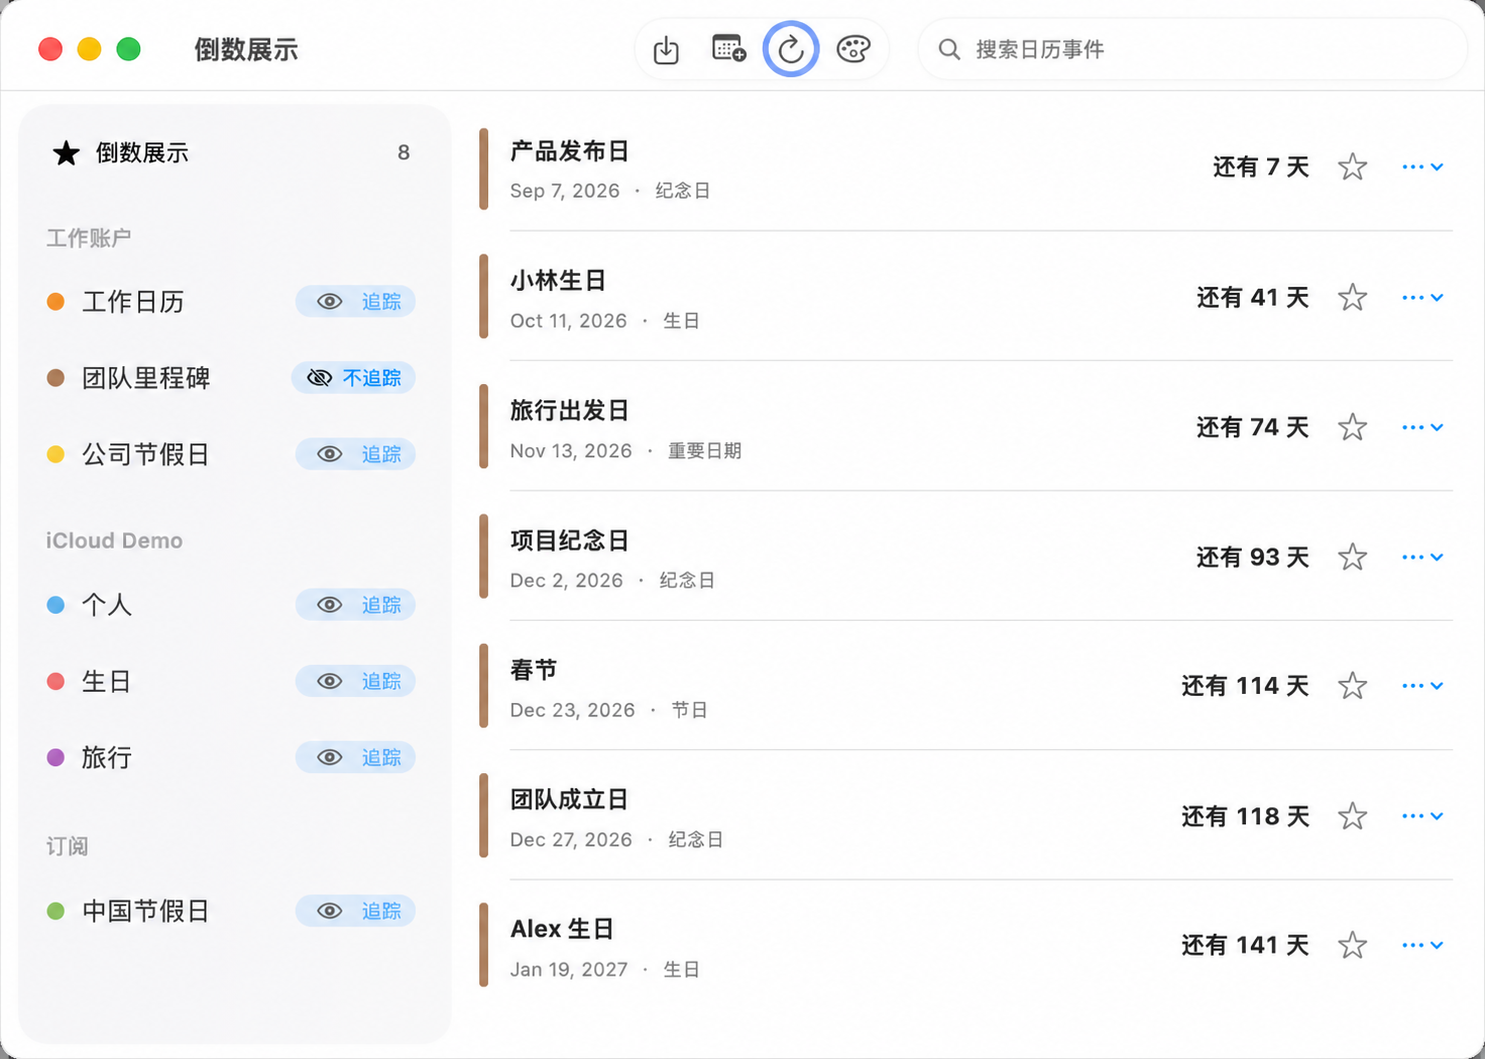
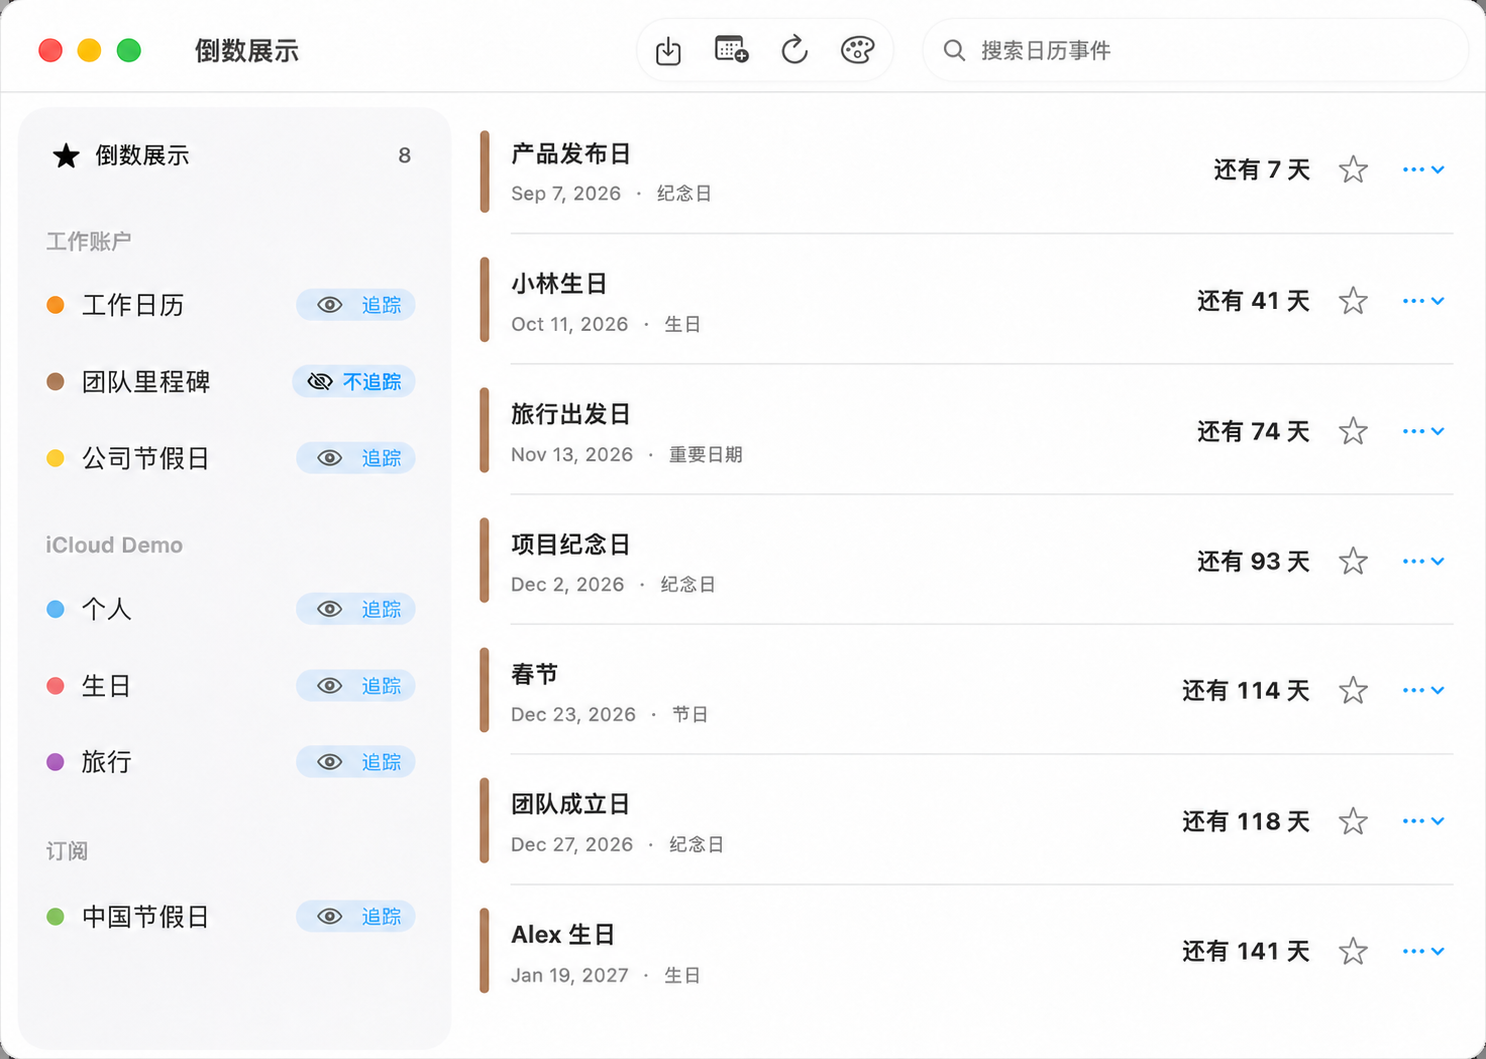
fix: remove refresh button focus highlight

diff --git a/Source/App/MainView.swift b/Source/App/MainView.swift
@@ -48,6 +48,7 @@ struct MainView: View {
                     Label("刷新", systemImage: "arrow.clockwise")
                 }
                 .disabled(model.isLoading)
+                .focusEffectDisabled()
 
                 Button {
                     openAppearanceSettings()

diff --git a/Source/App/MenuBarContentView.swift b/Source/App/MenuBarContentView.swift
@@ -18,6 +18,7 @@ struct MenuBarContentView: View {
                     Image(systemName: "arrow.clockwise")
                 }
                 .buttonStyle(.plain)
+                .focusEffectDisabled()
             }
 
             if model.selectedEvents.isEmpty {

diff --git a/README.fr.md b/README.fr.md
@@ -31,7 +31,6 @@ CalendarCountdown n’est pas une autre base de données de calendrier. Les comp
 - Prend en charge les règles annuelles grégoriennes et du calendrier lunaire chinois, y compris les mois intercalaires et le repli pour les mois courts.
 - Calcule « aujourd’hui », « demain » et le nombre de jours restants avec le calendrier local du système.
 - Application macOS native, aperçu dans la barre des menus et widget de bureau WidgetKit.
-- Un anneau bleu permanent rend l’action d’actualisation facile à repérer dans la fenêtre principale comme dans le menu contextuel.
 - Ajoute des événements ordinaires et des anniversaires grégoriens ou lunaires dans un calendrier Apple explicitement choisi.
 - Exporte en un clic toutes les dates importantes actuellement suivies.
 - Binaire universel pour les Mac Apple Silicon et Intel sous macOS 14 ou version ultérieure.

diff --git a/README.ja.md b/README.ja.md
@@ -31,7 +31,6 @@ CalendarCountdownは別のカレンダーデータベースではありません
 - グレゴリオ暦と中国旧暦の年次ルール、閏月、月末補正に対応。
 - システムのローカルカレンダーで「今日」「明日」と残り日数を計算。
 - macOSネイティブアプリ、メニューバー表示、WidgetKitデスクトップウィジェット。
-- メインウィンドウとメニューバーポップオーバーの更新ボタンは青いアクセントリングを常に表示し、すぐに見つけられます。
 - 通常の予定、グレゴリオ暦の誕生日、旧暦の誕生日を、明示的に選んだAppleカレンダーへ追加。
 - 現在追跡中の重要日をアプリからワンクリックで書き出し。
 - Apple SiliconとIntel Macに対応するUniversal Binary（macOS 14以降）。

diff --git a/README.ko.md b/README.ko.md
@@ -31,7 +31,6 @@ CalendarCountdown은 또 하나의 캘린더 데이터베이스가 아닙니다.
 - 양력과 중국 음력의 연간 규칙, 윤달과 짧은 음력 월의 보정 정책을 지원합니다.
 - 시스템의 로컬 캘린더로 ‘오늘’, ‘내일’과 남은 일수를 계산합니다.
 - 네이티브 macOS 앱, 메뉴 막대 보기와 WidgetKit 데스크톱 위젯을 제공합니다.
-- 메인 창과 메뉴 막대 팝오버의 새로고침 버튼에 파란 강조 링을 항상 표시해 동기화 동작을 쉽게 찾을 수 있습니다.
 - 일반 이벤트, 양력 생일과 음력 생일을 명시적으로 선택한 Apple 캘린더에 추가합니다.
 - 앱에서 현재 추적 중인 모든 중요 날짜를 한 번에 내보냅니다.
 - Apple Silicon과 Intel Mac을 모두 지원하는 Universal Binary입니다(macOS 14 이상).

diff --git a/README.de.md b/README.de.md
@@ -31,7 +31,6 @@ CalendarCountdown ist keine weitere Kalenderdatenbank. Konten, Kalender, Ereigni
 - Unterstützt jährliche Regeln nach gregorianischem und chinesischem Mondkalender, einschließlich Schaltmonaten und Ausgleich für kurze Mondmonate.
 - Berechnet „heute“, „morgen“ und verbleibende Tage anhand des lokalen Systemkalenders.
 - Native macOS-App, Menüleistenansicht und WidgetKit-Desktop-Widget.
-- Ein dauerhaft sichtbarer blauer Akzentring macht die Aktualisieren-Aktion im Hauptfenster und im Menüleisten-Popover leicht auffindbar.
 - Fügt normale Ereignisse sowie gregorianische oder lunare Geburtstage einem ausdrücklich gewählten Apple-Kalender hinzu.
 - Exportiert alle aktuell verfolgten wichtigen Termine mit einem Klick.
 - Universal Binary für Apple-Silicon- und Intel-Macs ab macOS 14.

diff --git a/README.es.md b/README.es.md
@@ -31,7 +31,6 @@ CalendarCountdown no es otra base de datos de calendarios. Las cuentas, calendar
 - Admite reglas anuales del calendario gregoriano y lunar chino, incluidos el mes intercalar y la compensación para meses cortos.
 - Calcula «hoy», «mañana» y los días restantes con el calendario local del sistema.
 - App nativa para macOS, vista en la barra de menús y widget de escritorio con WidgetKit.
-- Un anillo azul permanente permite localizar rápidamente la acción de actualizar tanto en la ventana principal como en el menú emergente.
 - Añade eventos normales y cumpleaños gregorianos o lunares a un calendario de Apple elegido explícitamente.
 - Exporta con un clic todas las fechas importantes que se están siguiendo.
 - Binario universal para Macs Apple Silicon e Intel, con macOS 14 o posterior.

diff --git a/README.pt.md b/README.pt.md
@@ -31,7 +31,6 @@ CalendarCountdown não é outro banco de dados de calendário. Contas, calendár
 - Suporta regras anuais do calendário gregoriano e lunar chinês, incluindo mês intercalar e ajuste para meses curtos.
 - Calcula “hoje”, “amanhã” e os dias restantes usando o calendário local do sistema.
 - App nativo para macOS, visualização na barra de menus e widget de desktop com WidgetKit.
-- Um anel azul persistente mantém a ação de atualizar fácil de localizar tanto na janela principal quanto no menu suspenso.
 - Adiciona eventos comuns e aniversários gregorianos ou lunares a um calendário Apple escolhido explicitamente.
 - Exporta com um clique todas as datas importantes acompanhadas no momento.
 - Binário universal para Macs Apple Silicon e Intel, com macOS 14 ou posterior.

diff --git a/README.en.md b/README.en.md
@@ -31,7 +31,6 @@ CalendarCountdown is not another calendar database. Accounts, calendars, events,
 - Support yearly Gregorian and Chinese lunar rules, including leap-month and short-month fallback policies.
 - Calculate “today,” “tomorrow,” and remaining days using the local system calendar.
 - Native macOS app, menu-bar glance, and WidgetKit desktop widget.
-- A persistent blue accent ring keeps the refresh action easy to find in both the main window and menu-bar popover.
 - Add regular events, Gregorian birthdays, and lunar birthdays to an explicitly selected Apple calendar.
 - Export every currently tracked important date with one click in the app.
 - Universal Binary for Apple Silicon and Intel Macs, requiring macOS 14 or later.
